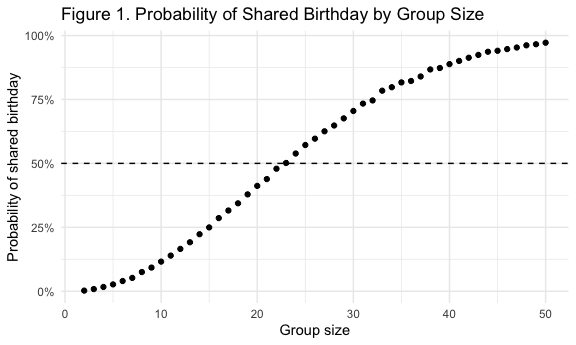
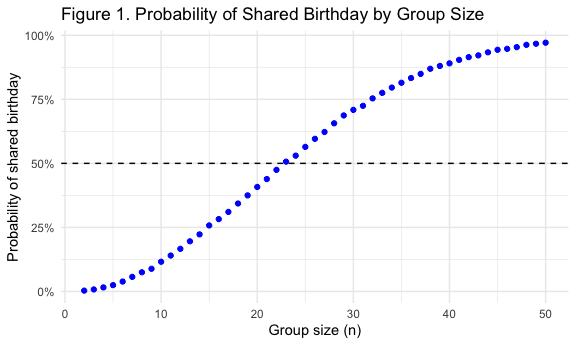
Starting problem set 2

diff --git a/p8105_hw5_smo2147.md b/p8105_hw5_smo2147.md
@@ -55,7 +55,7 @@ bday_prob = function(n) {
 ```
 
 ``` r
-set.seed(1)
+set.seed(123)
 
 bday_results =
   tibble(
@@ -73,27 +73,27 @@ bday_results
     ## # A tibble: 49 × 2
     ##        n bday_probability
     ##    <int>            <dbl>
-    ##  1     2           0.0024
-    ##  2     3           0.0085
-    ##  3     4           0.0167
-    ##  4     5           0.0267
-    ##  5     6           0.0399
-    ##  6     7           0.0521
-    ##  7     8           0.0751
-    ##  8     9           0.0925
+    ##  1     2           0.0033
+    ##  2     3           0.0079
+    ##  3     4           0.0158
+    ##  4     5           0.0248
+    ##  5     6           0.0387
+    ##  6     7           0.057 
+    ##  7     8           0.0749
+    ##  8     9           0.0885
     ##  9    10           0.116 
-    ## 10    11           0.139 
+    ## 10    11           0.140 
     ## # ℹ 39 more rows
 
 ``` r
 bday_results |> 
   ggplot(aes(x = n, y = bday_probability)) +
   geom_hline(yintercept = 0.5, linetype = "dashed") +
-  geom_point() +
+  geom_point(color = "blue") +
   scale_y_continuous(labels = percent_format()) +
   labs(
     title = "Figure 1. Probability of Shared Birthday by Group Size",
-    x = "Group size",
+    x = "Group size (n)",
     y = "Probability of shared birthday"
   )
 ```
@@ -108,3 +108,5 @@ increases closer to 100% with at least 40 people in a random sample.
 This is because we’re making comparisons based on matches, so the rate
 of possible shared birthdays increases at a faster rate than the group
 size
+
+# Problem 2
